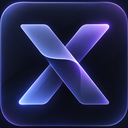
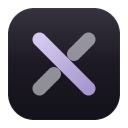
feat(brand): novo simbolo do xemnas e icone embutido no executavel
O simbolo neon foi trocado por um cruzamento de decisao: o traco escolhido
(lavanda) atravessa inteiro e a alternativa e interrompida, sobre bloco
carvao. assets/brand/xemnas-mark.svg e a fonte; PNGs e xemnas.ico saem
dele em cada tamanho. tools/brand-icon.ps1 compila xemnas.rc em
xemnas.res (icone ID 1 e versao), ligado pelo main.rs via #[link] sem
build script, que o Controle de Aplicativo bloquearia a cada rebuild. O
icone da barra de titulo usa um arquivo temporario com nome derivado do
conteudo, para nao reaproveitar o simbolo antigo.

Validacao: build, clippy e testes ok; o executavel desta compilacao foi
bloqueado pelo Smart App Control ao abrir, entao a captura ficou pendente.

diff --git a/apps/desktop-gpui/src/fonts.rs b/apps/desktop-gpui/src/fonts.rs
@@ -31,7 +31,8 @@ const JETBRAINS_MONO: &[u8] = include_bytes!("../assets/fonts/JetBrainsMono-Vari
 /// named instances (opsz 14, weights 200–800) rather than setting axes.
 const BRICOLAGE: &[u8] = include_bytes!("../assets/fonts/BricolageGrotesque-Variable.ttf");
 
-/// The app mark: the glass tile with the X aperture, supplied by the product.
+/// The app mark: a decision crossing (chosen path unbroken, the alternative
+/// interrupted) on a charcoal tile. Source: `assets/brand/xemnas-mark.svg`.
 ///
 /// 256 px is the size the mark is drawn at. Every consumer scales it down, and
 /// down-scaling a raster keeps the inner highlight intact where up-scaling
@@ -71,7 +72,13 @@ pub fn register_embedded(cx: &App) {
 /// content, PRIV-001); the image then simply does not appear, which is a
 /// degraded title bar rather than a failed frame.
 fn app_icon_path() -> PathBuf {
-    let path = std::env::temp_dir().join("xemnas-app-icon.png");
+    // Named after the bytes, so a new mark never reuses a stale cached file.
+    let digest = APP_ICON
+        .iter()
+        .fold(0xcbf2_9ce4_8422_2325_u64, |hash, byte| {
+            (hash ^ u64::from(*byte)).wrapping_mul(0x0100_0000_01b3)
+        });
+    let path = std::env::temp_dir().join(format!("xemnas-mark-{digest:016x}.png"));
     if !path.exists() {
         if let Err(error) = std::fs::write(&path, APP_ICON) {
             tracing::error!(

diff --git a/apps/desktop-gpui/src/main.rs b/apps/desktop-gpui/src/main.rs
@@ -28,6 +28,18 @@ use xemnas_desktop::ui::search_field::{
 
 mod demo;
 
+// Windows resources (icon ID 1 + version info) compiled once by
+// tools/brand-icon.ps1 and handed straight to the linker: no build script runs,
+// which this machine's Application Control policy would block on every rebuild.
+// Cargo runs rustc from the workspace root, so the path is relative to it.
+#[cfg(all(target_os = "windows", target_env = "msvc"))]
+#[link(
+    name = "apps/desktop-gpui/assets/brand/xemnas.res",
+    kind = "static",
+    modifiers = "+verbatim,-bundle"
+)]
+extern "C" {}
+
 fn main() {
     if let Err(error) = telemetry::init() {
         eprintln!("telemetry init failed: {error}");

diff --git a/VISUAL-IDENTITY.md b/VISUAL-IDENTITY.md
@@ -47,6 +47,18 @@ mas `docs/` é ignorado pelo Git: este arquivo é a regra versionável.
 - Cada informação tem um lugar: contagem na lista lateral, título da seção na
   própria seção; não repetir a mesma informação no título e no rodapé.
 
+## Marca
+
+- Símbolo: cruzamento de decisão. Dois traços em X; o escolhido (lavanda)
+  atravessa inteiro, a alternativa (clara, mais apagada) é interrompida no
+  cruzamento. Bloco carvão com leve viés lavanda, borda interna de 1 px, sem
+  brilho. Fonte única: `apps/desktop-gpui/assets/brand/xemnas-mark.svg`.
+- PNGs do app e o `xemnas.ico` são renderizados do SVG em cada tamanho (16 a
+  512 px), nunca reduzidos de um só bitmap. `tools/brand-icon.ps1` compila
+  `xemnas.rc` em `xemnas.res`, ligado ao executável pelo `main.rs` (ícone ID 1
+  e versão), sem build script.
+- Wordmark: "xemnas" em Bricolage Grotesque, minúsculo, ao lado do símbolo.
+
 ## Projetos — superfície atual
 
 - Lista persistente de projetos de 248 px (linhas de 48 px com nome e caminho) e
